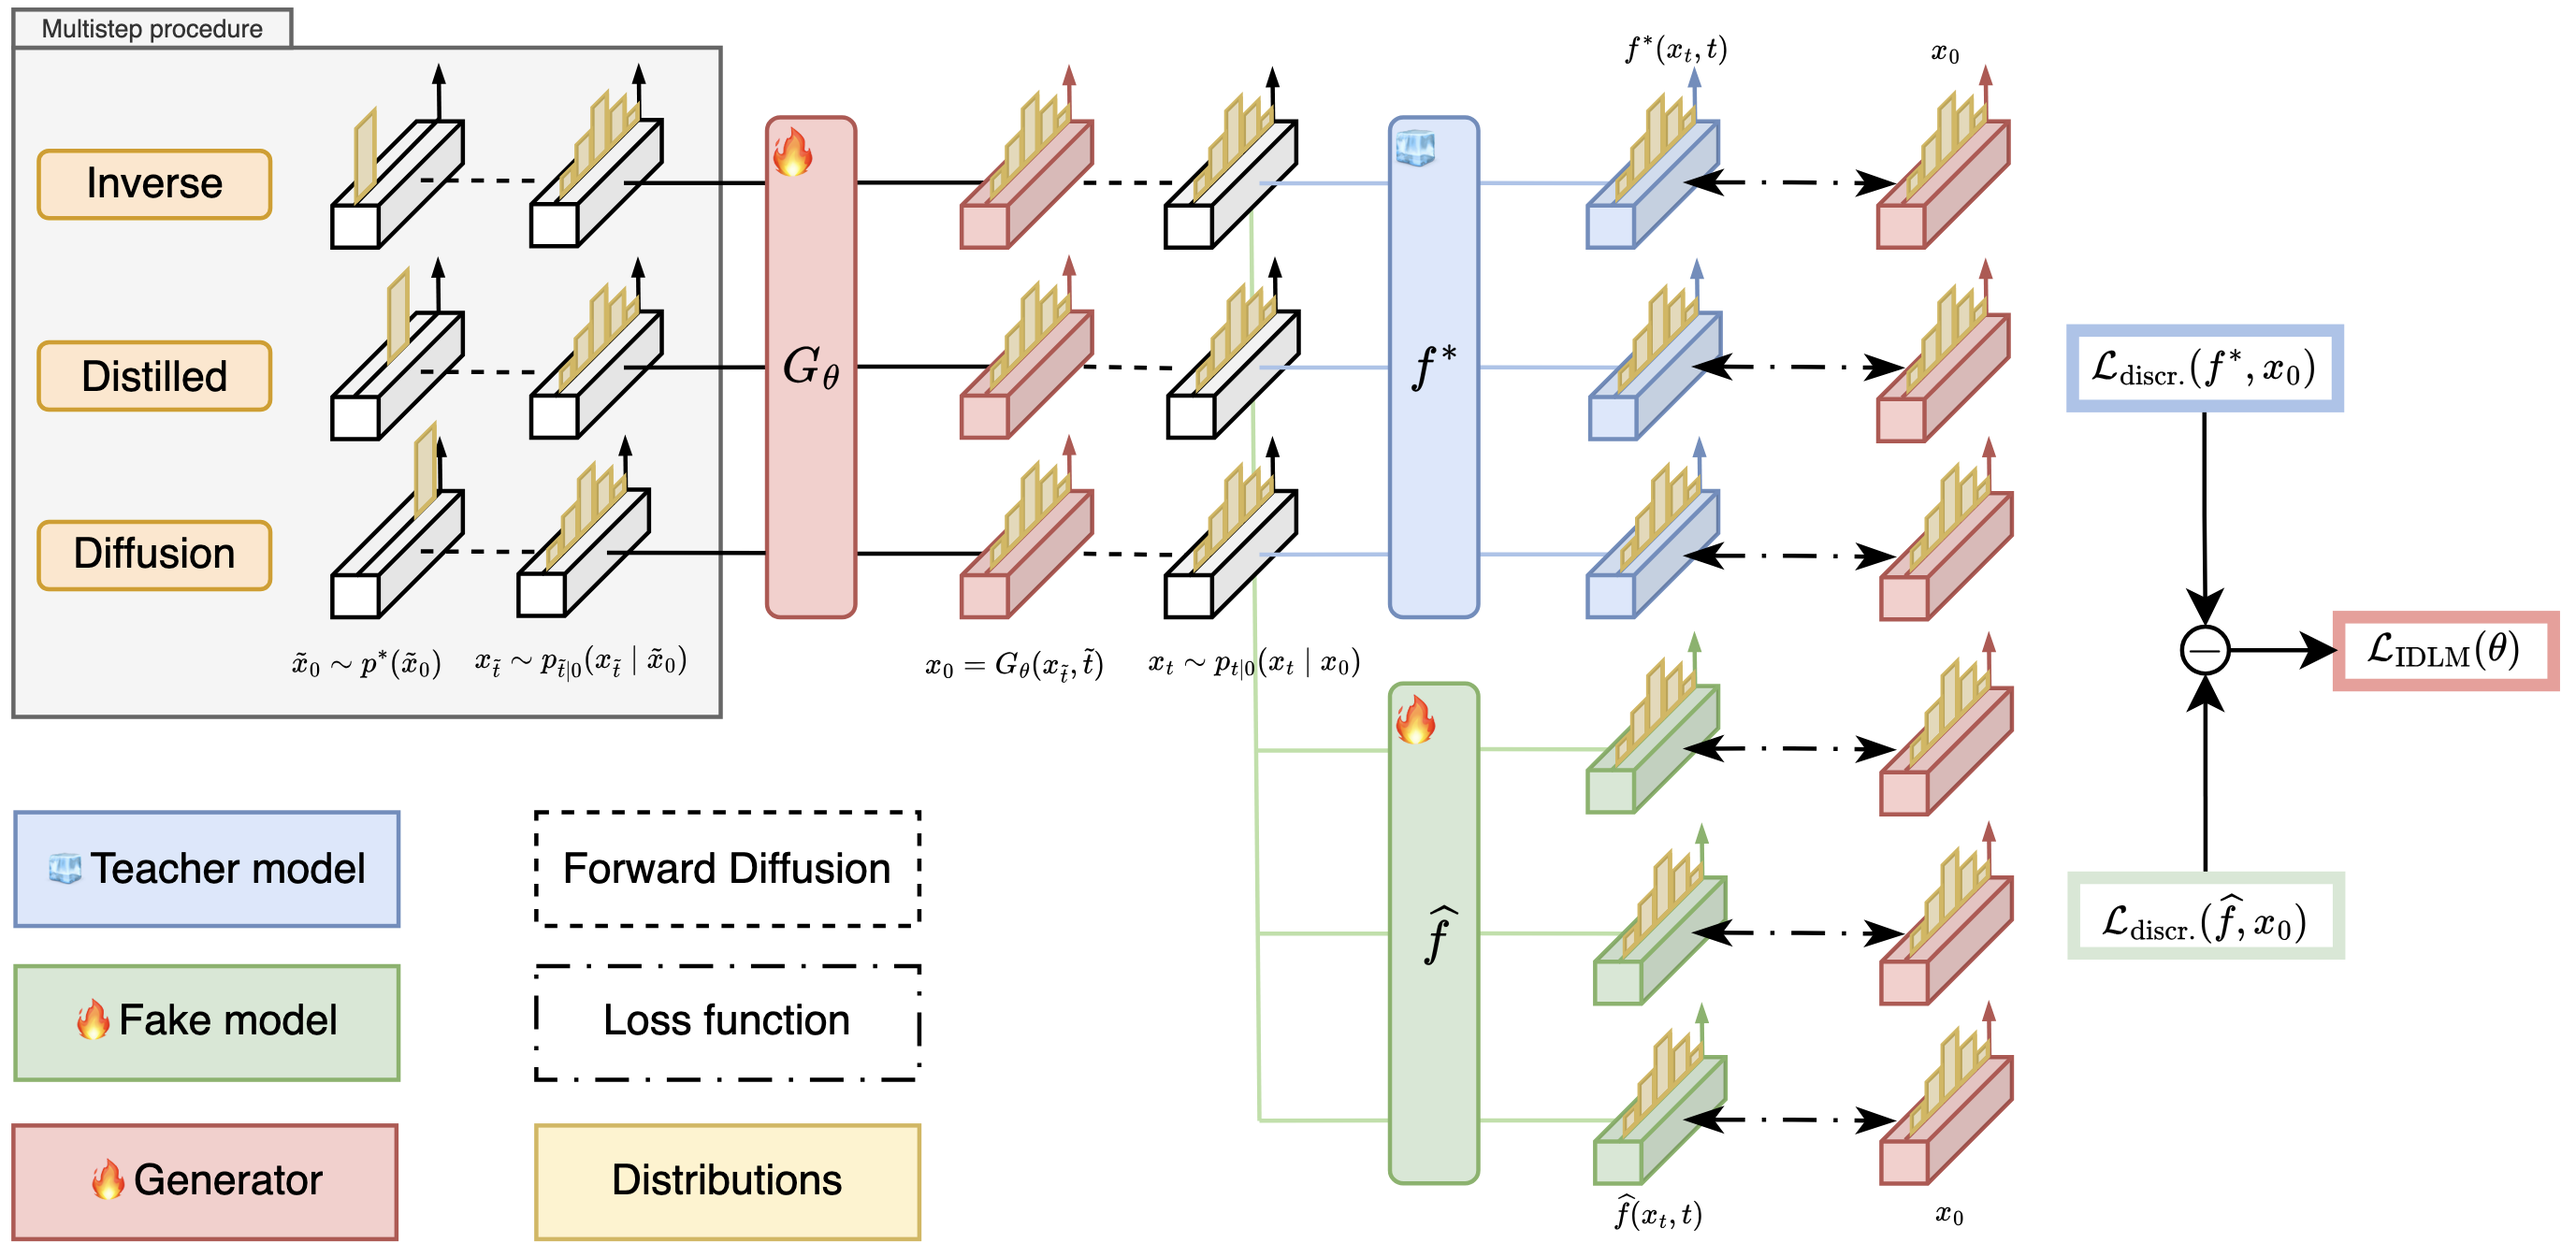
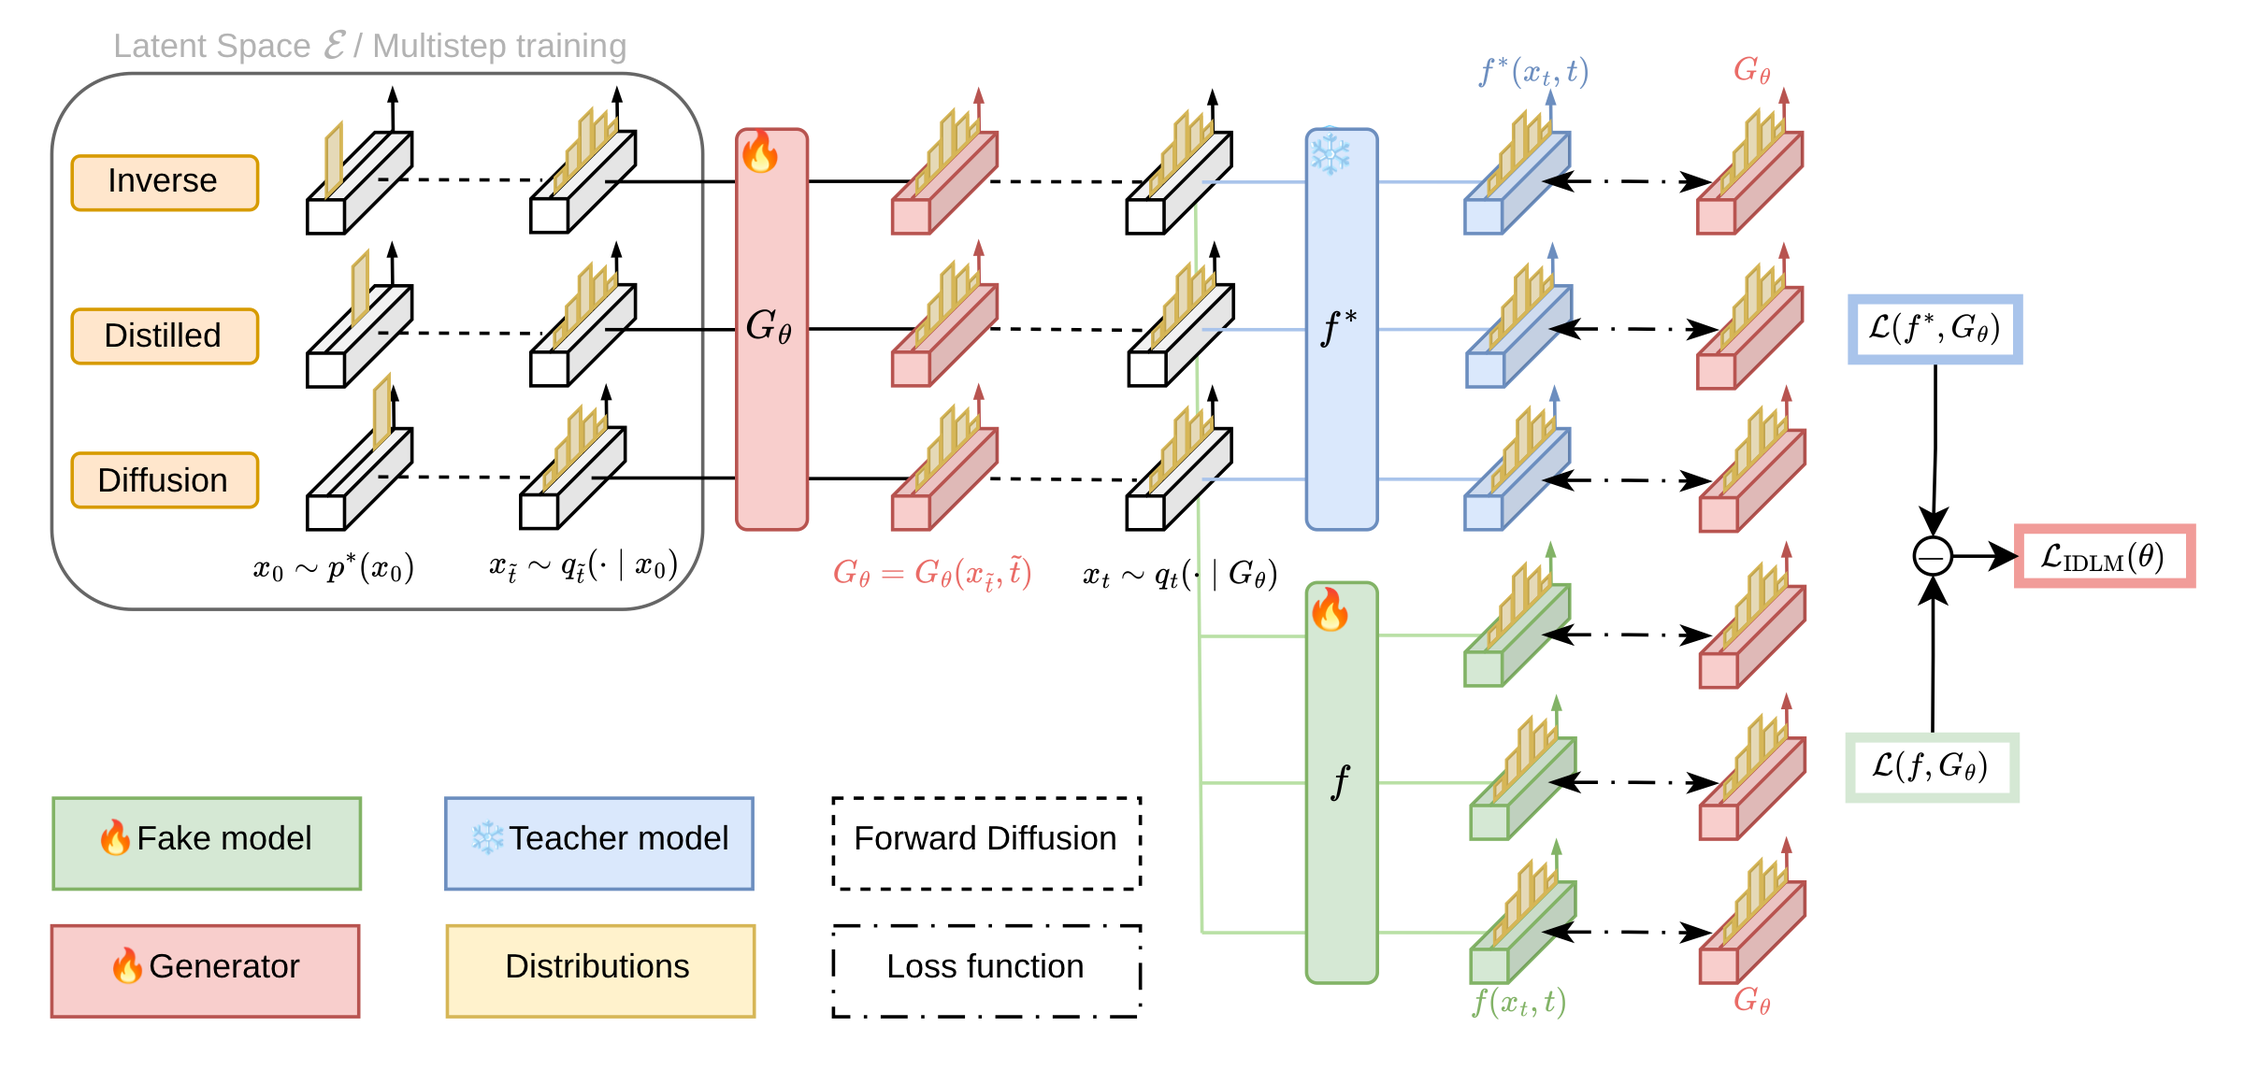
Update IDLM blog figures from arXiv source

diff --git a/docs/blog/index.html b/docs/blog/index.html
@@ -6,13 +6,13 @@
   <meta name="viewport" content="width=device-width, initial-scale=1">
   <meta name="description" content="Blog post about IDLM: Inverse-distilled Diffusion Language Models">
   <title>IDLM Blog | David Li</title>
-  <link rel="icon" type="image/png" sizes="32x32" href="/Bio-page/static/homepage/favicon-32.png?v=20260529-idlm-blog">
-  <link rel="icon" type="image/png" sizes="192x192" href="/Bio-page/static/homepage/favicon-192.png?v=20260529-idlm-blog">
-  <link rel="apple-touch-icon" sizes="180x180" href="/Bio-page/static/homepage/apple-touch-icon.png?v=20260529-idlm-blog">
+  <link rel="icon" type="image/png" sizes="32x32" href="/Bio-page/static/homepage/favicon-32.png?v=20260529-idlm-paper-figures">
+  <link rel="icon" type="image/png" sizes="192x192" href="/Bio-page/static/homepage/favicon-192.png?v=20260529-idlm-paper-figures">
+  <link rel="apple-touch-icon" sizes="180x180" href="/Bio-page/static/homepage/apple-touch-icon.png?v=20260529-idlm-paper-figures">
   <link rel="preconnect" href="https://fonts.googleapis.com">
   <link rel="preconnect" href="https://fonts.gstatic.com" crossorigin>
   <link href="https://fonts.googleapis.com/css2?family=JetBrains+Mono:wght@300;400;500;700;800&display=swap" rel="stylesheet">
-  <link rel="stylesheet" href="/Bio-page/static/homepage/concept.css?v=20260529-idlm-blog">
+  <link rel="stylesheet" href="/Bio-page/static/homepage/concept.css?v=20260529-idlm-paper-figures">
 </head>
 <body>
   <main class="blog-shell">
@@ -40,8 +40,8 @@
         </div>
       </div>
       <figure class="blog-figure blog-hero-figure">
-        <img src="/Bio-page/static/homepage/blog/idlm-teaser.png" alt="IDLM teaser comparing standard diffusion training with inverse distillation">
-        <figcaption>Instead of only learning a slow teacher from data, IDLM fixes the teacher and trains a fast student distribution.</figcaption>
+        <img src="/Bio-page/static/homepage/blog/idlm-teaser.png" alt="Current arXiv teaser comparing diffusion training with inverse distillation">
+        <figcaption>The current arXiv teaser: DLMs train a slow diffusion model from data, while IDLM fixes the teacher and trains a fast distribution.</figcaption>
       </figure>
     </header>
 
@@ -85,8 +85,8 @@
         </p>
 
         <figure class="blog-figure">
-          <img src="/Bio-page/static/homepage/blog/idlm-method.png" alt="IDLM training loop with a student generator, frozen teacher, and fake model">
-          <figcaption>The IDLM loop alternates between fitting the fake model and updating the student using the teacher-minus-fake gap.</figcaption>
+          <img src="/Bio-page/static/homepage/blog/idlm-method.png" alt="Current arXiv IDLM training loop with generator, teacher, and fake model">
+          <figcaption>The current arXiv method figure: a student generator is diffused forward, evaluated by the frozen teacher and the fake model, and updated through the teacher-minus-fake IDLM loss.</figcaption>
         </figure>
 
         <div class="method-grid">
@@ -117,11 +117,6 @@
             </p>
           </div>
         </div>
-
-        <figure class="blog-figure">
-          <img src="/Bio-page/static/homepage/blog/idlm-sequence-semantics.png" alt="Mixture view explaining how a shared latent variable captures sequence-level semantics">
-          <figcaption>A shared latent variable lets factorized token outputs behave like a mixture of coherent sentence-level components.</figcaption>
-        </figure>
       </section>
 
       <section id="results" class="blog-section">
@@ -189,6 +184,13 @@
             diversity checks. Lower GenPPL is better, but it must be read together with entropy because
             reverse-KL-like training can become mode-seeking.
           </p>
+          <figure class="blog-figure">
+            <div class="blog-figure-grid">
+              <img src="/Bio-page/static/homepage/blog/idlm-owt-mdlm-bars.png" alt="Current arXiv OpenWebText masked diffusion bar figure">
+              <img src="/Bio-page/static/homepage/blog/idlm-owt-duo-greedy-bars.png" alt="Current arXiv OpenWebText uniform diffusion bar figure">
+            </div>
+            <figcaption>The current arXiv OpenWebText result panels compare teacher and distilled models under much smaller sampling budgets.</figcaption>
+          </figure>
           <div class="metric-grid">
             <div class="metric-card">
               <span>Masked Diffusion</span>
@@ -238,6 +240,10 @@
               </tbody>
             </table>
           </div>
+          <figure class="blog-figure">
+            <img src="/Bio-page/static/homepage/blog/idlm-owt-frontier.png" alt="Current arXiv GenPPL and entropy tradeoff plot on OpenWebText">
+            <figcaption>The current arXiv GenPPL--entropy frontier shows how IDLM sits in the low-GenPPL, high-diversity region of the tradeoff.</figcaption>
+          </figure>
         </section>
       </section>
 

diff --git a/homepage/templates/homepage/idlm_blog.html b/homepage/templates/homepage/idlm_blog.html
@@ -6,13 +6,13 @@
   <meta name="viewport" content="width=device-width, initial-scale=1">
   <meta name="description" content="Blog post about IDLM: Inverse-distilled Diffusion Language Models">
   <title>IDLM Blog | {{ profile.name }}</title>
-  <link rel="icon" type="image/png" sizes="32x32" href="{% static 'homepage/favicon-32.png' %}?v=20260529-idlm-blog">
-  <link rel="icon" type="image/png" sizes="192x192" href="{% static 'homepage/favicon-192.png' %}?v=20260529-idlm-blog">
-  <link rel="apple-touch-icon" sizes="180x180" href="{% static 'homepage/apple-touch-icon.png' %}?v=20260529-idlm-blog">
+  <link rel="icon" type="image/png" sizes="32x32" href="{% static 'homepage/favicon-32.png' %}?v=20260529-idlm-paper-figures">
+  <link rel="icon" type="image/png" sizes="192x192" href="{% static 'homepage/favicon-192.png' %}?v=20260529-idlm-paper-figures">
+  <link rel="apple-touch-icon" sizes="180x180" href="{% static 'homepage/apple-touch-icon.png' %}?v=20260529-idlm-paper-figures">
   <link rel="preconnect" href="https://fonts.googleapis.com">
   <link rel="preconnect" href="https://fonts.gstatic.com" crossorigin>
   <link href="https://fonts.googleapis.com/css2?family=JetBrains+Mono:wght@300;400;500;700;800&display=swap" rel="stylesheet">
-  <link rel="stylesheet" href="{% static 'homepage/concept.css' %}?v=20260529-idlm-blog">
+  <link rel="stylesheet" href="{% static 'homepage/concept.css' %}?v=20260529-idlm-paper-figures">
 </head>
 <body>
   <main class="blog-shell">
@@ -40,8 +40,8 @@
         </div>
       </div>
       <figure class="blog-figure blog-hero-figure">
-        <img src="{% static 'homepage/blog/idlm-teaser.png' %}" alt="IDLM teaser comparing standard diffusion training with inverse distillation">
-        <figcaption>Instead of only learning a slow teacher from data, IDLM fixes the teacher and trains a fast student distribution.</figcaption>
+        <img src="{% static 'homepage/blog/idlm-teaser.png' %}" alt="Current arXiv teaser comparing diffusion training with inverse distillation">
+        <figcaption>The current arXiv teaser: DLMs train a slow diffusion model from data, while IDLM fixes the teacher and trains a fast distribution.</figcaption>
       </figure>
     </header>
 
@@ -85,8 +85,8 @@
         </p>
 
         <figure class="blog-figure">
-          <img src="{% static 'homepage/blog/idlm-method.png' %}" alt="IDLM training loop with a student generator, frozen teacher, and fake model">
-          <figcaption>The IDLM loop alternates between fitting the fake model and updating the student using the teacher-minus-fake gap.</figcaption>
+          <img src="{% static 'homepage/blog/idlm-method.png' %}" alt="Current arXiv IDLM training loop with generator, teacher, and fake model">
+          <figcaption>The current arXiv method figure: a student generator is diffused forward, evaluated by the frozen teacher and the fake model, and updated through the teacher-minus-fake IDLM loss.</figcaption>
         </figure>
 
         <div class="method-grid">
@@ -117,11 +117,6 @@
             </p>
           </div>
         </div>
-
-        <figure class="blog-figure">
-          <img src="{% static 'homepage/blog/idlm-sequence-semantics.png' %}" alt="Mixture view explaining how a shared latent variable captures sequence-level semantics">
-          <figcaption>A shared latent variable lets factorized token outputs behave like a mixture of coherent sentence-level components.</figcaption>
-        </figure>
       </section>
 
       <section id="results" class="blog-section">
@@ -189,6 +184,13 @@
             diversity checks. Lower GenPPL is better, but it must be read together with entropy because
             reverse-KL-like training can become mode-seeking.
           </p>
+          <figure class="blog-figure">
+            <div class="blog-figure-grid">
+              <img src="{% static 'homepage/blog/idlm-owt-mdlm-bars.png' %}" alt="Current arXiv OpenWebText masked diffusion bar figure">
+              <img src="{% static 'homepage/blog/idlm-owt-duo-greedy-bars.png' %}" alt="Current arXiv OpenWebText uniform diffusion bar figure">
+            </div>
+            <figcaption>The current arXiv OpenWebText result panels compare teacher and distilled models under much smaller sampling budgets.</figcaption>
+          </figure>
           <div class="metric-grid">
             <div class="metric-card">
               <span>Masked Diffusion</span>
@@ -238,6 +240,10 @@
               </tbody>
             </table>
           </div>
+          <figure class="blog-figure">
+            <img src="{% static 'homepage/blog/idlm-owt-frontier.png' %}" alt="Current arXiv GenPPL and entropy tradeoff plot on OpenWebText">
+            <figcaption>The current arXiv GenPPL--entropy frontier shows how IDLM sits in the low-GenPPL, high-diversity region of the tradeoff.</figcaption>
+          </figure>
         </section>
       </section>
 

diff --git a/docs/index.html b/docs/index.html
@@ -12,7 +12,7 @@
   <link rel="preconnect" href="https://fonts.googleapis.com">
   <link rel="preconnect" href="https://fonts.gstatic.com" crossorigin>
   <link href="https://fonts.googleapis.com/css2?family=JetBrains+Mono:wght@300;400;500;700;800&display=swap" rel="stylesheet">
-  <link rel="stylesheet" href="/Bio-page/static/homepage/concept.css?v=20260529-idlm-blog">
+  <link rel="stylesheet" href="/Bio-page/static/homepage/concept.css?v=20260529-idlm-paper-figures">
 </head>
 <body>
   <div class="layout">

diff --git a/homepage/templates/homepage/concept.html b/homepage/templates/homepage/concept.html
@@ -12,7 +12,7 @@
   <link rel="preconnect" href="https://fonts.googleapis.com">
   <link rel="preconnect" href="https://fonts.gstatic.com" crossorigin>
   <link href="https://fonts.googleapis.com/css2?family=JetBrains+Mono:wght@300;400;500;700;800&display=swap" rel="stylesheet">
-  <link rel="stylesheet" href="{% static 'homepage/concept.css' %}?v=20260529-idlm-blog">
+  <link rel="stylesheet" href="{% static 'homepage/concept.css' %}?v=20260529-idlm-paper-figures">
 </head>
 <body>
   <div class="layout">

diff --git a/docs/static/homepage/concept.css b/docs/static/homepage/concept.css
@@ -648,7 +648,17 @@ svg {
 }
 
 .blog-hero-figure img {
-  aspect-ratio: 16 / 10;
+  aspect-ratio: 2.64 / 1;
+}
+
+.blog-figure-grid {
+  display: grid;
+  grid-template-columns: repeat(2, minmax(0, 1fr));
+  gap: 14px;
+}
+
+.blog-figure-grid img {
+  max-height: 360px;
 }
 
 .blog-figure figcaption {
@@ -793,7 +803,8 @@ svg {
   }
 
   .method-grid,
-  .metric-grid {
+  .metric-grid,
+  .blog-figure-grid {
     grid-template-columns: 1fr;
   }
 

diff --git a/homepage/static/homepage/concept.css b/homepage/static/homepage/concept.css
@@ -648,7 +648,17 @@ svg {
 }
 
 .blog-hero-figure img {
-  aspect-ratio: 16 / 10;
+  aspect-ratio: 2.64 / 1;
+}
+
+.blog-figure-grid {
+  display: grid;
+  grid-template-columns: repeat(2, minmax(0, 1fr));
+  gap: 14px;
+}
+
+.blog-figure-grid img {
+  max-height: 360px;
 }
 
 .blog-figure figcaption {
@@ -793,7 +803,8 @@ svg {
   }
 
   .method-grid,
-  .metric-grid {
+  .metric-grid,
+  .blog-figure-grid {
     grid-template-columns: 1fr;
   }
 
